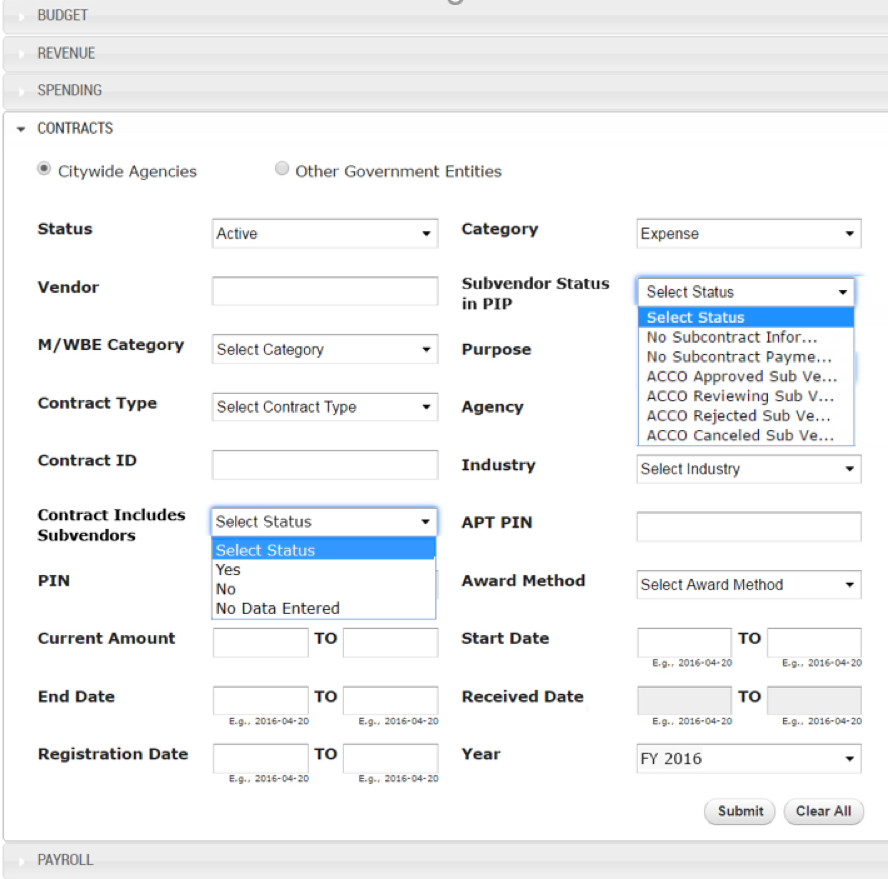
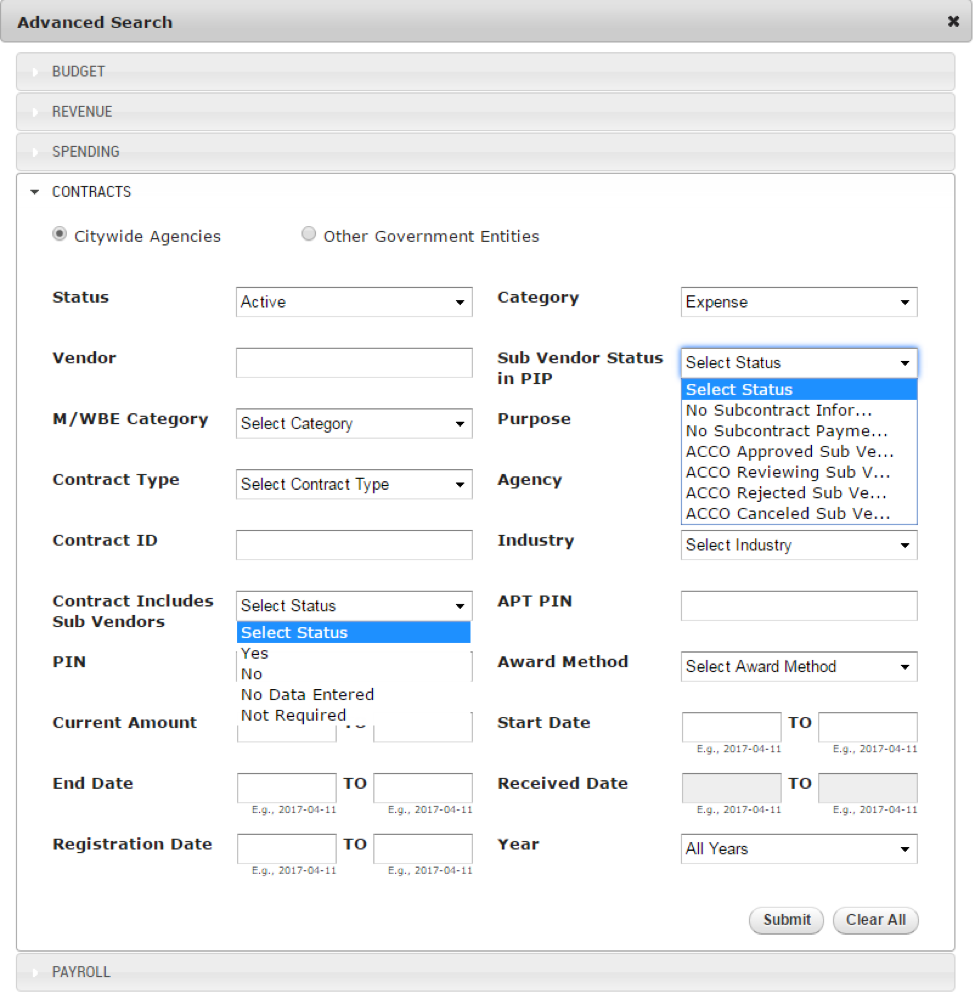
NYCCHKBK-7427: New Features Content-Subvendor Updates : NYCCHKBK-7655 Development Former-commit-id: 2496fd3c20affa2dea96aad33501c8ae4fb4a81a [formerly 2496fd3c20affa2dea96aad33501c8ae4fb4a81a [formerly 2496fd3c20affa2dea96aad33501c8ae4fb4a81a [formerly 4d2a87d9778f7475ddd1279a34e40f0ffadc895d]]] For

diff --git a/source/webapp/sites/all/modules/custom/checkbook_project/templates/new-features.html b/source/webapp/sites/all/modules/custom/checkbook_project/templates/new-features.html
@@ -1,41 +1,43 @@
 <br/>
-<div class="new-features-description">
+<!--<div class="new-features-description">
     <p>
         In order to keep up with the changing landscape of Checkbook, we have added the ‘New Features’ Button. Check in here for new functionality within the application, so that we can provide you with unparalleled levels of government transparency.
     </p>
-</div>
-<h3 class="date-of-release">October 2016</h3>
-<div class="new-features-title">Sub vendor Contracts Status in Checkbook</div>
+</div> -->
+<h3 class="date-of-release">1. Sub vendor Contracts Status</h3>
+<!--<div class="new-features-title">Sub vendor Contracts Status in Checkbook</div> -->
 <div class="new-features-description">
     <p>
-       It is our wish to not only provide greater transparency, but to help prime and sub vendors track the progress of their sub-contracts within the City. In order to achieve this, we needed to provide Agency Chief Contracting Officers (ACCOs) with a simple way to review all of their prime contracts while encouraging more Prime vendors to enter their sub vendor information into the City’s Payment Information Portal. </p>
+        It is our wish to not only provide greater transparency, but to help prime and sub vendors track the progress of their sub-contracts within the City. In order to achieve this, we needed to provide Agency Chief Contracting Officers (ACCOs) with a simple way to review all of their prime contracts while encouraging more Prime vendors to enter their sub vendor information into the City’s Payment Information Portal.
+    </p>
     <br/>
-    <p>By including additional subcontractor information into Checkbook we are now able to allow:</p>
+    <p>By including additional subcontractor information into Checkbook, we are now able to allow:</p>
     <ul>
-        <li>1) All interested parties outside of City government to review sub vendor information, including contracts and payments.</li>
-        <li>2) Prime vendors and ACCOs to see who has declared and entered sub vendor information on prime contracts into PIP as required by MOCS.</li>
+        <li>1) All interested parties to review sub vendor information, including contracts and payments.</li>
+        <li>2) Interested parties to see who has declared and entered sub vendor information on prime contracts into PIP as required by MOCS.</li>
         <li>3) Prime vendors a simple way to review the status of all their contracts. </li>
         <li>4) Sub vendors to cross-reference information entered in PIP to their own accounts payable systems to ensure proper, prompt payment.</li>
     </ul>
 </div>
 
-<h3 class="new-features">WHAT NEW INFORMATION IS BEING ADDED TO CHECKBOOK?</h3>
+<!--<h3 class="new-features">WHAT NEW INFORMATION IS BEING ADDED TO CHECKBOOK?</h3> -->
 <div class="new-features-title">1.  Prime Vendor Contract Status</div>
 <div class="new-features-description">
     <p>Whether prime vendors have uploaded sub vendor information is displayed using one of three options.</p>
     <ul style="list-style-type:disc;">
         <li>1 = No Data Entered. Prime has not entered any sub vendor information</li>
         <li>2 = Yes. Prime has indicated sub vendors on contract</li>
-        <li>3 = No. Prime has no sub vendor on contract</li>
+        <li>3 = No. Prime has no sub vendor on contrac</li>
+        <li>4 = Not Required. Prime Current Amount<250,000 and/or prime contract associated to specified list of award method and contract types exclusions.</li>
     </ul>
 </div>
 <div class="more" style="display:none">
-    <div class="new-features-title">2.  Status of Sub Vendor contract entered into PIP by Prime Vendor</div>
+    <div class="new-features-title">2.	Status of Sub Vendor contract entered in PIP by Prime Vendor</div>
     <div class="new-features-description">
         <p>The status of sub vendor contracts being reviewed and approved within agencies is displayed using one of the following options.</p>
         <ul style="list-style-type:disc;">
             <li>2 = Rejected - ACCO rejected sub vendor contract</li>
-            <li>3 = Reviewing- Waiting for ACCO to approve or reject sub vendor contract </li>
+            <li>3 = Reviewing- Waiting for ACCO to approve or reject sub vendor contract</li>
             <li>4 = Approved - ACCO approved sub vendor contract</li>
             <li>5 = Cancelled - ACCO cancelled their approval of sub vendor contract.</li>
             <li><strong>No Subcontract Information Submitted by Prime</strong>- This status indicates that the prime has not submitted subcontract information for approval.</li>
@@ -43,28 +45,13 @@
         </ul>
     </div>
 
-    <h3 class="new-features">NEW CHECKBOOK FUNCTIONALITY</h3>
+    <h3 class="new-features">UPDATED SEARCH FEATURES: ADVANCE SEARCH, ALERTS, DATA FEEDS, and API</h3>
     <div class="new-features-description">
-        <p>The new content is shared using newly built checkbook widgets. Within the Contract Landing pages, a new field called <strong>‘Contract Includes Sub vendors’</strong> has been added to the widget table.  For each prime vendor contract, one of three values is displayed: No Data Entered, Yes or No.  (See Figures 1 and 2).
-    For prime contract records active prior to FY2016, this new field shall display status as <strong>'Prior Year Exclusions'</strong>.
-       </p>
+        <p>
+            These methods for searching and extracting data from Checkbook have been updated to allow users to select status related to Contracts that include sub vendor and the status of all sub vendor contracts entered PIP by the prime vendor.
+        </p>
     </div>
-    <div class="new-features-title">Figure 1 Citywide View for Contract Landing Page </div>
-    <div class="new-features-description">
-        <img src="/sites/all/themes/checkbook3/images/new-features/figure1.png" alt="Citywide View for Contract Landing Page">
-    </div>
-
-    <div class="new-features-title">Figure 2 Agency Contract Landing Page</div>
-    <div class="new-features-description">
-        <img src="/sites/all/themes/checkbook3/images/new-features/figure2.png" alt="Agency Contract Landing Page">
-    <p>This new field also appears in the “Top 5 Contracts”, within the Vendor landing page, not show in this document. </p>
-    </div>
-    <br/><br/>
-    <h3 class="new-features">UPDATED SEARCH FEATURES: ADVANCE SEARCH, ALERTS, DATA FEEDS, API AND NARROW DOWN YOUR FACET </h3>
-    <div class="new-features-description">
-        <p>These methods for searching and extracting data from Checkbook have been updated to allow users to select status related to Contracts that include sub vendor and the status of all sub vendor contracts entered into PIP by the prime vendor.  (See Figure 3)</p>
-    </div>
-    <div class="new-features-title">Figure 3</div>
+    <div class="new-features-title">Advanced Search Form</div>
     <div class="new-features-description">
         <img src="/sites/all/themes/checkbook3/images/new-features/figure3.png" alt="Search Form">
     </div>
@@ -72,35 +59,27 @@
     <h3 class="new-features">UPDATED SUBVENDOR DASHBOARDS</h3>
     <div class="new-features-title">Featured Dashboard Contract Modifications for Sub Vendors</div>
     <div class="new-features-description">
-        <p>The bottom navigation bar was updated to consolidate the six choices to three and update the descriptions to accurately reflect the functionality. (See Figures 4 and 5)</p>
-    </div>
-
-    <div class="new-features-title">Figure 4 Current Navigation Bar</div>
-    <div class="new-features-description">
-         <img src="/sites/all/themes/checkbook3/images/new-features/figure4.png" alt="Current Navigation Bar">
-    </div>
-    <div class="new-features-title">Figure 5 New Navigation Bar </div>
-    <div class="new-features-description">
-         <img src="/sites/all/themes/checkbook3/images/new-features/figure5.png" alt="New Navigation Bar">
-    </div>
-    <div class="new-features-description">
-        <p>Three new widget tables have been created at the City-wide Level, Agency Level and Vendor Level to report the status of sub vendor contracts entered into PIP by the prime vendor. This is a visual representation of the data we’ll now be providing. </p>
+        <p>The bottom navigation bar was updated accurately reflect the sub vendor dashboard functionality.</p>
+        <br/>
+        <img src="/sites/all/themes/checkbook3/images/new-features/figure5.png" alt="New Navigation Bar">
         <br/>
         <p>The widget labeled, “Subcontract Status by Prime Contract ID” displays the sub vendor status in PIP for all prime contracts who declared having sub vendors at the City-wide, Agency and Vendor levels.</p>
-        <br/>
         <p>The widget labeled, “Summary of Prime Contract Sub Vendor Reporting” summarizes status totals by prime contracts at the City-wide, Agency and Vendor levels.</p>
-        <br/>
         <p>The widget labeled, “Summary of Sub Vendor Contract by Prime Contracts” summarizes status totals of sub vendor contracts submitted for ACCO approval at the City-wide, Agency and Vendor levels.</p>
     </div>
     <br/><br/>
-    <h3 class="new-features">UPDATED TRANSACTION PAGES</h3>
+    <h3 class="new-features">UPDATED Contract ID Page</h3>
     <div class="new-features-description">
-        <p>Transaction pages have been updated to now include all of the information that we have pertaining to contracts. The prime contract information appears first followed by all of the subsequent sub vendor information. Additionally, the ‘Narrow Down Your Search’ filters now allow users to filter on the sub vendor’s status in the Payment Information Portal (PIP) and on whether the “By Contract Includes Sub vendors’’, allowing the user to know if the Prime Vendor has declared sub vendors on a contract. (see figure 6)</p>
+        <p>Contract ID page have been updated to now include sub vendor information section. Sub vendor Information section shall include details for contract status of sub vendors and total number of sub vendors. Sub vendor approval status in pip is also added to the spending by sub vendor table.</p>
     </div>
+    <br/>
+    <h3 class="date-of-release">2. Other Updates</h3>
+    <h3 class="new-features">ADDITION OF 2016 TRENDS</h3>
     <div class="new-features-description">
-        <img src="/sites/all/themes/checkbook3/images/new-features/figure6.png" alt="Transaction Pages">
+        <p>Trends shall now include data for year 2016. Featured trends and all trends now include data for 2016</p>
     </div>
 </div>
+<br/>
 <a href="" class="new-features-morelink">Show More »</a>
 <script type="text/javascript">
 jQuery(document).ready(function() {
